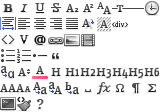
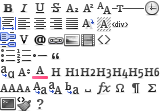
Updated decoda assets

Changed region(s): [[0.0, 0.2679, 0.125, 0.4286], [0.5938, 0.2946, 0.6875, 0.4018]]

diff --git a/webroot/js/decoda-1.1.0.min.js b/webroot/js/decoda-1.1.0.min.js
@@ -1,11 +1,12 @@
 /**
- * Decoda
- * A lightweight textarea editor with toolbar functionality for the Decoda markup language.
+ * Decoda - A lightweight textarea editor with toolbar functionality for the Decoda markup language.
  *
  * @copyright	2013
  * @link		http://milesj.me/code/mootools/decoda
  * @license		MIT
  * @authors		Miles Johnson <http://milesj.me>
+ *
+ * @version		1.1.0
  * @package		js
  */
 
@@ -14,7 +15,7 @@
 this.form=this.textarea.getParent('form');this.editor=new Element('div.decoda-editor');this.toolbar=new Element('div.decoda-toolbars');this.container=new Element('div.decoda-textarea');this.preview=new Element('div.decoda-preview').hide();this.help=new Element('div.decoda-help').hide();this.container.wraps(this.textarea);this.editor.grab(this.toolbar).wraps(this.container).adopt([this.preview,this.help]);if(this.options.namespace){this.editor.addClass(this.options.namespace);}
 if(this.$events.submit){this.form.addEvent('submit',this.$events.submit[0].bind(this));}
 this.fireEvent('initialize');},defaults:function(blacklist){this.addFilters(null,null,blacklist);this.addControls(null,null,blacklist);return this;},addControls:function(control,commands,blacklist){if(!commands){Object.each(Decoda.controls,function(commands,control){this.addControls(control,commands,blacklist);}.bind(this));}else{this.buildToolbar(control,commands,blacklist);}
-return this;},addFilters:function(filter,tags,blacklist){if(!tags){Object.each(Decoda.filters,function(tags,filter){this.addFilters(filter,tags,blacklist);}.bind(this));}else{this.buildToolbar(filter,tags,blacklist);Object.each(tags,function(tag){this.tags.push(tag);}.bind(this));}
+return this;},addFilters:function(filter,tags,blacklist){if(!tags){var filters=Object.clone(Decoda.filters);delete filters.email;delete filters.url;delete filters.image;delete filters.video;Object.each(filters,function(tags,filter){this.addFilters(filter,tags,blacklist);}.bind(this));}else{this.buildToolbar(filter,tags,blacklist);Object.each(tags,function(tag){this.tags.push(tag);}.bind(this));}
 return this;},buildToolbar:function(id,commands,blacklist){blacklist=Array.from(blacklist)||[];var ul=new Element('ul.decoda-toolbar').addClass('toolbar-'+id),li,button,menu,anchor;Object.each(commands,function(command){if(blacklist.indexOf(command.tag)>=0){return;}
 li=new Element('li');button=new Element('button.tag-'+command.tag,{html:'<span></span>',title:command.title,type:'button'});button.addEvent('click',(command.onClick||this.insertTag).bind(this,command,button));if(command.key){button.set('title',button.get('title')+' (Ctrl + '+command.key.toUpperCase()+')');this.textarea.addEvent('keydown',function(e){this._listenKeydown.attempt([e,command,button],this);}.bind(this));}
 if(command.className){button.addClass(command.className);}
@@ -30,12 +31,12 @@ var markup=this.formatTag(tag,defaultValue,contentValue);if(this.textarea.getSel
 this.fireEvent('insert',markup);return this;},formatTag:function(tag,defaultValue,contentValue,type){defaultValue=defaultValue||tag.defaultValue||'';contentValue=contentValue||tag.placeholder||'';var t=tag.tag,o=this.options.open,c=this.options.close,open=o+t,close=o+'/'+t+c,field;if(tag.hasDefault){field=tag.promptFor||'default';if(tag.prompt&&field==='default'){if(defaultValue){open+='="'+defaultValue+'"';}}else{open+='="'+defaultValue+'"';}}
 if(tag.selfClose){return open+'/'+c;}else{open+=c;}
 if(type==='open'){return open;}else if(type==='close'){return close;}
-return open+contentValue+close;},renderHelp:function(){var table=new Element('table'),thead=new Element('thead'),tbody=new Element('tbody'),tr,examples,attributes;tr=new Element('tr');tr.grab(new Element('th',{text:'Tag'}));tr.grab(new Element('th',{text:'Attributes'}));tr.grab(new Element('th',{text:'Examples'}));thead.grab(tr);this.tags.each(function(tag){attributes=(tag.attributes||[]).join(', ');examples=(tag.examples||[this.formatTag(tag)]).join('<br>');tr=new Element('tr');tr.grab(new Element('td',{html:tag.title}).addClass('tag-title'));tr.grab(new Element('td',{html:attributes}).addClass('tag-attributes'));tr.grab(new Element('td',{html:examples}).addClass('tag-examples'));tbody.grab(tr);}.bind(this));table.adopt([thead,tbody]);this.help.grab(table);this.fireEvent('renderHelp',table);},renderPreview:function(){this.preview.addClass('loading');new Request({url:this.options.previewUrl,data:{input:this.textarea.get('value')},onSuccess:function(response){this.preview.removeClass('loading').set('html',response);}.bind(this),onFailure:function(){this.container.show();this.enableToolbar();alert('An error has occurred while rendering the preview.');}.bind(this)}).post();this.fireEvent('renderPreview');},_listenKeydown:function(e,command,button){if(e.control&&e.key===command.key){e.stop();if(command.onClick){command.onClick.attempt([command,button],this);}else{this.insertTag(command,button);}
+return open+contentValue+close;},renderHelp:function(){var table=new Element('table'),thead=new Element('thead'),tbody=new Element('tbody'),tr,examples,attributes;tr=new Element('tr');tr.grab(new Element('th',{text:'Tag'}));tr.grab(new Element('th',{text:'Attributes'}));tr.grab(new Element('th',{text:'Examples'}));thead.grab(tr);this.tags.each(function(tag){attributes=(tag.attributes||[]).join(', ');examples=(tag.examples||[this.formatTag(tag)]).join('<br>');tr=new Element('tr');tr.grab(new Element('td',{html:tag.title}).addClass('tag-title'));tr.grab(new Element('td',{html:attributes}).addClass('tag-attributes'));tr.grab(new Element('td',{html:examples}).addClass('tag-examples'));tbody.grab(tr);}.bind(this));table.adopt([thead,tbody]);this.help.grab(table);this.fireEvent('renderHelp',table);},renderPreview:function(){this.preview.addClass('loading');new Request({url:this.options.previewUrl,data:{input:this.textarea.get('value')},onSuccess:function(response){this.preview.removeClass('loading').set('html',response);}.bind(this),onFailure:function(){this.container.show();this.enableToolbar();alert('An error has occurred while rendering the preview');}.bind(this)}).post();this.fireEvent('renderPreview');},_listenKeydown:function(e,command,button){if(e.control&&e.key===command.key){e.stop();if(command.onClick){command.onClick.attempt([command,button],this);}else{this.insertTag(command,button);}
 return false;}}});Decoda.filters={};Decoda.controls={};Decoda.filters.defaults={b:{tag:'b',title:'Bold',key:'b'},i:{tag:'i',title:'Italics',key:'i'},u:{tag:'u',title:'Underline',key:'u'},s:{tag:'s',title:'Strike-Through',key:'s'},sub:{tag:'sub',title:'Subscript'},sup:{tag:'sup',title:'Superscript'},abbr:{tag:'abbr',title:'Abbreviation',hasDefault:true,prompt:'Title:',attributes:['default'],examples:['[abbr="Hyper-Text Markup Language"]HTML[/abbr]']},time:{tag:'time',title:'Timestamp',prompt:'Date:',promptFor:'content'},br:{tag:'br',title:'Line Break',selfClose:true},hr:{tag:'hr',title:'Horizontal Break',selfClose:true}};Decoda.filters.text={font:{tag:'font',title:'Font Family',prompt:'Font:',hasDefault:true,attributes:['default'],examples:['[font="Arial"][/font]'],options:[{title:'Arial',defaultValue:'Arial',className:'font-arial',prompt:false},{title:'Tahoma',defaultValue:'Tahoma',className:'font-tahoma',prompt:false},{title:'Verdana',defaultValue:'Verdana',className:'font-verdana',prompt:false},{title:'Courier',defaultValue:'Courier',className:'font-courier',prompt:false},{title:'Times',defaultValue:'Times',className:'font-times',prompt:false},{title:'Helvetica',defaultValue:'Helvetica',className:'font-helvetica',prompt:false}]},size:{tag:'size',title:'Text Size',prompt:'Size:',hasDefault:true,attributes:['default'],examples:['[size="12"][/size]'],options:[{title:'Small',defaultValue:'10',className:'size-small',prompt:false},{title:'Normal',defaultValue:'12',className:'size-normal',prompt:false},{title:'Medium',defaultValue:'18',className:'size-medium',prompt:false},{title:'Large',defaultValue:'24',className:'size-large',prompt:false}],onInsert:function(value,field){if(field==='default'){return Number.from(value).limit(10,29);}
 return value;}},color:{tag:'color',title:'Text Color',prompt:'Hex Code:',hasDefault:true,attributes:['default'],examples:['[color="red"][/color]'],options:[{title:'Yellow',defaultValue:'yellow',className:'color-yellow',prompt:false},{title:'Orange',defaultValue:'orange',className:'color-orange',prompt:false},{title:'Red',defaultValue:'red',className:'color-red',prompt:false},{title:'Blue',defaultValue:'blue',className:'color-blue',prompt:false},{title:'Purple',defaultValue:'purple',className:'color-purple',prompt:false},{title:'Green',defaultValue:'green',className:'color-green',prompt:false},{title:'White',defaultValue:'white',className:'color-white',prompt:false},{title:'Gray',defaultValue:'gray',className:'color-gray',prompt:false},{title:'Black',defaultValue:'black',className:'color-black',prompt:false}],onInsert:function(value,field){if(field==='default'){return(/(?:#[0-9a-f]{3,6}|[a-z]+)/i).exec(value)?value:null;}
-return value;}},heading:{tag:'h1',title:'Heading',examples:['[h1][/h1], [h2][/h2], [h3][/h3], [h4][/h4], [h5][/h5], [h6][/h6]'],options:[{tag:'h1',title:'1st',className:'heading-h1'},{tag:'h2',title:'2nd',className:'heading-h2'},{tag:'h3',title:'3rd',className:'heading-h3'},{tag:'h4',title:'4th',className:'heading-h4'},{tag:'h5',title:'5th',className:'heading-h5'},{tag:'h6',title:'6th',className:'heading-h6'}]}};Decoda.filters.block={left:{tag:'left',title:'Left Align'},center:{tag:'center',title:'Center Align'},right:{tag:'right',title:'Right Align'},justify:{tag:'justify',title:'Justify Align'},hide:{tag:'hide',title:'Hide'},spoiler:{tag:'spoiler',title:'Spoiler'}};Decoda.filters.list={list:{tag:'list',title:'Unordered List'},olist:{tag:'olist',title:'Ordered List'},li:{tag:'li',title:'List Item'}};Decoda.filters.quote={quote:{tag:'quote',title:'Quote Block',prompt:'Author:',hasDefault:true,examples:['[quote][/quote]','[quote="Author"][/quote]','[quote date="12/12/2012"][/quote]'],attributes:['default <span>(optional)</span>','date <span>(optional)</span>']}};Decoda.filters.code={code:{tag:'code',title:'Code Block',examples:['[code][/code]','[code="html"][/code]','[code hl="1,5,10"][/code]'],attributes:['default <span>(optional)</span>','hl <span>(optional)</span>']},var:{tag:'var',title:'Variable'}};Decoda.filters.email={email:{tag:'email',title:'Email',prompt:'Email Address:',hasDefault:true,examples:['[email]email@domain.com[/email]','[email="email@domain.com"][/email]'],attributes:['default <span>(optional)</span>']}};Decoda.filters.url={url:{tag:'url',title:'URL',prompt:'Web Address:',hasDefault:true,examples:['[url]http://domain.com[/url]','[url="http://domain.com"][/url]'],attributes:['default <span>(optional)</span>']}};Decoda.filters.image={img:{tag:'img',title:'Image',prompt:'Image URL:',examples:['[img][/img]','[img width="250" height="15%"][/img]'],attributes:['width <span>(optional)</span>','height <span>(optional)</span>']}};Decoda.filters.video={video:{tag:'video',title:'Video',prompt:'Video ID:',promptFor:'content',hasDefault:true,examples:['[video="youtube"]ID[/video]','[youtube size="large"]ID[/youtube]','[veoh size="small"]ID[/veoh]'],attributes:['default','size <span>(optional)</span>'],options:[{tag:'youtube',title:'YouTube',hasDefault:false,className:'video-youtube'},{tag:'vimeo',title:'Vimeo',hasDefault:false,className:'video-vimeo'},{tag:'veoh',title:'Veoh',hasDefault:false,className:'video-veoh'},{tag:'liveleak',title:'LiveLeak',hasDefault:false,className:'video-liveleak'},{tag:'dailymotion',title:'Daily Motion',hasDefault:false,className:'video-dailymotion'},{tag:'collegehumor',title:'College Humor',hasDefault:false,className:'video-collegehumor'},{tag:'myspace',title:'MySpace',hasDefault:false,className:'video-myspace'},{tag:'wegame',title:'WeGame',hasDefault:false,className:'video-wegame'}]}};Decoda.controls.editor={preview:{tag:'preview',key:'e',title:'Preview',onClick:function(command,button){if(!this.options.previewUrl){alert('Preview functionality has not been enabled.');return;}
+return value;}},heading:{tag:'h1',title:'Heading',examples:['[h1][/h1], [h2][/h2], [h3][/h3], [h4][/h4], [h5][/h5], [h6][/h6]'],options:[{tag:'h1',title:'1st',className:'heading-h1'},{tag:'h2',title:'2nd',className:'heading-h2'},{tag:'h3',title:'3rd',className:'heading-h3'},{tag:'h4',title:'4th',className:'heading-h4'},{tag:'h5',title:'5th',className:'heading-h5'},{tag:'h6',title:'6th',className:'heading-h6'}]}};Decoda.filters.block={left:{tag:'left',title:'Left Align'},center:{tag:'center',title:'Center Align'},right:{tag:'right',title:'Right Align'},justify:{tag:'justify',title:'Justify Align'},hide:{tag:'hide',title:'Hide'},spoiler:{tag:'spoiler',title:'Spoiler'}};Decoda.filters.list={list:{tag:'list',title:'Unordered List'},olist:{tag:'olist',title:'Ordered List'},li:{tag:'li',title:'List Item'}};Decoda.filters.quote={quote:{tag:'quote',title:'Quote Block',prompt:'Author:',hasDefault:true,examples:['[quote][/quote]','[quote="Author"][/quote]','[quote date="12/12/2012"][/quote]'],attributes:['default <span>(optional)</span>','date <span>(optional)</span>']}};Decoda.filters.code={code:{tag:'code',title:'Code Block',examples:['[code][/code]','[code="html"][/code]','[code hl="1,5,10"][/code]'],attributes:['default <span>(optional)</span>','hl <span>(optional)</span>']},var:{tag:'var',title:'Variable'},source:{tag:'source',title:'Source Code (Inline)'}};Decoda.filters.email={email:{tag:'email',title:'Email',prompt:'Email Address:',hasDefault:true,examples:['[email]email@domain.com[/email]','[email="email@domain.com"][/email]'],attributes:['default <span>(optional)</span>']}};Decoda.filters.url={url:{tag:'url',title:'URL',prompt:'Web Address:',hasDefault:true,examples:['[url]http://domain.com[/url]','[url="http://domain.com"][/url]'],attributes:['default <span>(optional)</span>']}};Decoda.filters.image={img:{tag:'img',title:'Image',prompt:'Image URL:',examples:['[img][/img]','[img width="250" height="15%"][/img]'],attributes:['width <span>(optional)</span>','height <span>(optional)</span>']}};Decoda.filters.video={video:{tag:'video',title:'Video',prompt:'Video ID:',promptFor:'content',hasDefault:true,examples:['[video="youtube"]ID[/video]','[youtube size="large"]ID[/youtube]','[veoh size="small"]ID[/veoh]'],attributes:['default','size <span>(optional)</span>'],options:[{tag:'youtube',title:'YouTube',hasDefault:false,className:'video-youtube'},{tag:'vimeo',title:'Vimeo',hasDefault:false,className:'video-vimeo'},{tag:'veoh',title:'Veoh',hasDefault:false,className:'video-veoh'},{tag:'liveleak',title:'LiveLeak',hasDefault:false,className:'video-liveleak'},{tag:'dailymotion',title:'Daily Motion',hasDefault:false,className:'video-dailymotion'},{tag:'collegehumor',title:'College Humor',hasDefault:false,className:'video-collegehumor'},{tag:'myspace',title:'MySpace',hasDefault:false,className:'video-myspace'},{tag:'wegame',title:'WeGame',hasDefault:false,className:'video-wegame'}]}};Decoda.filters.media=Object.merge({},Decoda.filters.email,Decoda.filters.url,Decoda.filters.image,Decoda.filters.video);Decoda.controls.editor={preview:{tag:'preview',key:'e',title:'Preview',onClick:function(command,button){if(!this.options.previewUrl){alert('Preview functionality has not been enabled');return;}
 this.container.hide();this.help.hide();if(this.preview.isVisible()){this.preview.hide().empty();this.container.show();this.enableToolbar();}else{this.preview.show();this.disableToolbar();this.renderPreview();}
-button.set('disabled',false);}},clean:{tag:'clean',title:'Clean',onClick:function(){this.disableToolbar();if(this.clean()){window.setTimeout(function(){this.enableToolbar();}.bind(this),500);}}},help:{tag:'help',title:'Help',onClick:function(command,button){if(!this.tags.length){alert('No tag filters have been loaded.');return;}
+button.set('disabled',false);}},clean:{tag:'clean',title:'Clean',onClick:function(){this.disableToolbar();if(this.clean()){window.setTimeout(function(){this.enableToolbar();}.bind(this),500);}}},help:{tag:'help',title:'Help',onClick:function(command,button){if(!this.tags.length){alert('No tag filters have been loaded');return;}
 this.container.hide();this.preview.hide();if(!this.help.hasChildNodes()){this.renderHelp();}
 if(this.help.isVisible()){this.help.hide();this.container.show();this.enableToolbar();}else{this.help.show();this.disableToolbar();}
 button.set('disabled',false);}}};}());

diff --git a/webroot/css/decoda-1.1.0.min.css b/webroot/css/decoda-1.1.0.min.css
@@ -1,13 +1,14 @@
 /**
- * Decoda
- * A lightweight textarea editor with toolbar functionality for the Decoda markup language.
+ * Decoda - A lightweight textarea editor with toolbar functionality for the Decoda markup language.
  *
  * @copyright	2013
  * @link		http://milesj.me/code/mootools/decoda
  * @license		MIT
  * @authors		Miles Johnson <http://milesj.me>
+ *
+ * @version		1.1.0
  * @package		css
  */
 
 /* css/decoda.css */
-.decoda-editor *{-moz-box-sizing:border-box;-webkit-box-sizing:border-box;box-sizing:border-box;margin:0;padding:0}.decoda-editor textarea{width:100%}.decoda-toolbars{display:block;font-size:12px;margin-bottom:5px}.decoda-toolbars .decoda-toolbar{display:inline-block}.decoda-toolbars .decoda-toolbar li{display:inline-block;z-index:0;margin-right:1px;position:relative}.decoda-toolbars .decoda-toolbar li:not(.disabled):hover .decoda-menu{display:block}.decoda-toolbars .decoda-menu{display:none;position:absolute;top:25px;left:2px;z-index:10;width:125px;background:rgba(255, 255, 255, .95);box-shadow:0 0 4px #4e4e4e;border-radius:2px}.decoda-toolbars .decoda-menu li{margin:0;display:block}.decoda-toolbars button{padding:2px}.decoda-toolbars button[disabled]{opacity:.15}.decoda-toolbars button::-moz-focus-inner{border:0;padding:0}.decoda-toolbars button span{background-image:url("../img/icons-black.png");display:block;width:16px;height:16px}.decoda-toolbars .decoda-menu a{text-shadow:none;color:black;display:block;padding:3px 5px;line-height:150%;min-height:16px;vertical-align:middle;text-decoration:none}.decoda-toolbars .decoda-menu a:hover{font-weight:bold;background:#eee}.decoda-toolbars .decoda-menu li:first-child a{border-top-left-radius:2px;border-top-right-radius:2px}.decoda-toolbars .decoda-menu li:last-child a{border-bottom-left-radius:2px;border-bottom-right-radius:2px}.decoda-editor .tag-b span{background-position:0px 0}.decoda-editor .tag-i span{background-position:-16px 0}.decoda-editor .tag-u span{background-position:-32px 0}.decoda-editor .tag-s span{background-position:-48px 0}.decoda-editor .tag-sub span{background-position:-64px 0}.decoda-editor .tag-sup span{background-position:-80px 0}.decoda-editor .tag-abbr span{background-position:-96px 0}.decoda-editor .tag-br span{background-position:-112px 0}.decoda-editor .tag-hr span{background-position:-128px 0}.decoda-editor .tag-time span{background-position:-144px 0}.decoda-editor .tag-align span{background-position:0 -16px}.decoda-editor .tag-left span{background-position:-16px -16px}.decoda-editor .tag-center span{background-position:-32px -16px}.decoda-editor .tag-right span{background-position:-48px -16px}.decoda-editor .tag-justify span{background-position:-64px -16px}.decoda-editor .tag-hide span{background-position:-80px -16px}.decoda-editor .tag-spoiler span{background-position:-96px -16px}.decoda-editor .tag-div span{background-position:-112px -16px}.decoda-editor .tag-code span{background-position:0 -32px}.decoda-editor .tag-var span{background-position:-16px -32px}.decoda-editor .tag-email span{background-position:-32px -32px}.decoda-editor .tag-url span{background-position:-48px -32px}.decoda-editor .tag-img span{background-position:-64px -32px}.decoda-editor .tag-video span{background-position:-80px -32px}.decoda-editor .tag-list span{background-position:0 -48px}.decoda-editor .tag-olist span{background-position:-16px -48px}.decoda-editor .tag-li span{background-position:-32px -48px}.decoda-editor .tag-quote span{background-position:-48px -48px}.decoda-editor .tag-font span{background-position:0 -64px}.decoda-editor .tag-size span{background-position:-16px -64px}.decoda-editor .tag-color span{background-position:-32px -64px}.decoda-editor .tag-h1 span{background-position:-48px -64px}.decoda-editor .tag-allupper span{background-position:0 -80px}.decoda-editor .tag-capitalize span{background-position:-16px -80px}.decoda-editor .tag-lowercase span{background-position:-32px -80px}.decoda-editor .tag-uppercase span{background-position:-48px -80px}.decoda-editor .tag-replace span{background-position:-64px -80px}.decoda-editor .tag-space span{background-position:-80px -80px}.decoda-editor .tag-function span{background-position:-96px -80px}.decoda-editor .tag-omega span{background-position:-112px -80px}.decoda-editor .tag-pilcrow span{background-position:-128px -80px}.decoda-editor .tag-sum span{background-position:-144px -80px}.decoda-editor .tag-preview span{background-position:0 -96px}.decoda-editor .tag-clean span{background-position:-16px -96px}.decoda-editor .tag-help span{background-position:-32px -96px}.decoda-editor .font-arial{font-family:Arial, sans-serif}.decoda-editor .font-tahoma{font-family:Tahoma, sans-serif}.decoda-editor .font-verdana{font-family:Verdana, sans-serif}.decoda-editor .font-courier{font-family:Courier, sans-serif}.decoda-editor .font-times{font-family:'Times', 'Times New Roman', serif}.decoda-editor .font-helvetica{font-family:Helvetica, sans-serif}.decoda-editor .size-small{font-size:10px}.decoda-editor .size-normal{font-size:12px}.decoda-editor .size-medium{font-size:18px}.decoda-editor .size-large{font-size:24px}.decoda-editor .menu-h1 span,.decoda-editor .menu-color span{display:inline-block;vertical-align:middle;margin-right:5px;height:16px;width:16px;position:relative;top:-1px}.decoda-editor .menu-h1 span{background-image:url("../img/icons-black.png")}.decoda-editor .menu-h1 .heading-h1 span{background-position:-64px -64px}.decoda-editor .menu-h1 .heading-h2 span{background-position:-80px -64px}.decoda-editor .menu-h1 .heading-h3 span{background-position:-96px -64px}.decoda-editor .menu-h1 .heading-h4 span{background-position:-112px -64px}.decoda-editor .menu-h1 .heading-h5 span{background-position:-128px -64px}.decoda-editor .menu-h1 .heading-h6 span{background-position:-144px -64px}.decoda-editor .menu-color .color-yellow span{background-color:yellow}.decoda-editor .menu-color .color-orange span{background-color:orange}.decoda-editor .menu-color .color-red span{background-color:red}.decoda-editor .menu-color .color-blue span{background-color:blue}.decoda-editor .menu-color .color-purple span{background-color:purple}.decoda-editor .menu-color .color-green span{background-color:green}.decoda-editor .menu-color .color-white span{background-color:white}.decoda-editor .menu-color .color-gray span{background-color:gray}.decoda-editor .menu-color .color-black span{background-color:black}.decoda-preview{max-height:500px;overflow-y:auto}.decoda-help table{width:100%;border-collapse:collapse;border-spacing:1px}.decoda-help table td,.decoda-help table th{border:1px solid rgba(0, 0, 0, .05);padding:5px}.decoda-help table th{font-weight:bold;background:rgba(0, 0, 0, .05)}.decoda-help table .tag-title{font-weight:bold}
+.decoda-editor *{-moz-box-sizing:border-box;-webkit-box-sizing:border-box;box-sizing:border-box;margin:0;padding:0}.decoda-editor textarea{width:100%}.decoda-toolbars{display:block;font-size:12px;margin-bottom:5px}.decoda-toolbars .decoda-toolbar{display:inline-block}.decoda-toolbars .decoda-toolbar li{display:inline-block;z-index:0;margin-right:1px;position:relative}.decoda-toolbars .decoda-toolbar li:not(.disabled):hover .decoda-menu{display:block}.decoda-toolbars .decoda-menu{display:none;position:absolute;top:25px;left:2px;z-index:10;width:125px;background:rgba(255, 255, 255, .95);box-shadow:0 0 4px #4e4e4e;border-radius:2px}.decoda-toolbars .decoda-menu li{margin:0;display:block}.decoda-toolbars button{padding:2px}.decoda-toolbars button[disabled]{opacity:.15}.decoda-toolbars button::-moz-focus-inner{border:0;padding:0}.decoda-toolbars button span{background-image:url("../img/icons-black.png");display:block;width:16px;height:16px}.decoda-toolbars .decoda-menu a{text-shadow:none;color:black;display:block;padding:3px 5px;line-height:150%;min-height:16px;vertical-align:middle;text-decoration:none}.decoda-toolbars .decoda-menu a:hover{font-weight:bold;background:#eee}.decoda-toolbars .decoda-menu li:first-child a{border-top-left-radius:2px;border-top-right-radius:2px}.decoda-toolbars .decoda-menu li:last-child a{border-bottom-left-radius:2px;border-bottom-right-radius:2px}.decoda-editor .tag-b span{background-position:0px 0}.decoda-editor .tag-i span{background-position:-16px 0}.decoda-editor .tag-u span{background-position:-32px 0}.decoda-editor .tag-s span{background-position:-48px 0}.decoda-editor .tag-sub span{background-position:-64px 0}.decoda-editor .tag-sup span{background-position:-80px 0}.decoda-editor .tag-abbr span{background-position:-96px 0}.decoda-editor .tag-br span{background-position:-112px 0}.decoda-editor .tag-hr span{background-position:-128px 0}.decoda-editor .tag-time span{background-position:-144px 0}.decoda-editor .tag-align span{background-position:0 -16px}.decoda-editor .tag-left span{background-position:-16px -16px}.decoda-editor .tag-center span{background-position:-32px -16px}.decoda-editor .tag-right span{background-position:-48px -16px}.decoda-editor .tag-justify span{background-position:-64px -16px}.decoda-editor .tag-hide span{background-position:-80px -16px}.decoda-editor .tag-spoiler span{background-position:-96px -16px}.decoda-editor .tag-div span{background-position:-112px -16px}.decoda-editor .tag-code span{background-position:0 -32px}.decoda-editor .tag-var span{background-position:-16px -32px}.decoda-editor .tag-email span{background-position:-32px -32px}.decoda-editor .tag-url span{background-position:-48px -32px}.decoda-editor .tag-img span{background-position:-64px -32px}.decoda-editor .tag-video span{background-position:-80px -32px}.decoda-editor .tag-source span{background-position:-96px -32px}.decoda-editor .tag-list span{background-position:0 -48px}.decoda-editor .tag-olist span{background-position:-16px -48px}.decoda-editor .tag-li span{background-position:-32px -48px}.decoda-editor .tag-quote span{background-position:-48px -48px}.decoda-editor .tag-font span{background-position:0 -64px}.decoda-editor .tag-size span{background-position:-16px -64px}.decoda-editor .tag-color span{background-position:-32px -64px}.decoda-editor .tag-h1 span{background-position:-48px -64px}.decoda-editor .tag-allupper span{background-position:0 -80px}.decoda-editor .tag-capitalize span{background-position:-16px -80px}.decoda-editor .tag-lowercase span{background-position:-32px -80px}.decoda-editor .tag-uppercase span{background-position:-48px -80px}.decoda-editor .tag-replace span{background-position:-64px -80px}.decoda-editor .tag-space span{background-position:-80px -80px}.decoda-editor .tag-function span{background-position:-96px -80px}.decoda-editor .tag-omega span{background-position:-112px -80px}.decoda-editor .tag-pilcrow span{background-position:-128px -80px}.decoda-editor .tag-sum span{background-position:-144px -80px}.decoda-editor .tag-preview span{background-position:0 -96px}.decoda-editor .tag-clean span{background-position:-16px -96px}.decoda-editor .tag-help span{background-position:-32px -96px}.decoda-editor .font-arial{font-family:Arial, sans-serif}.decoda-editor .font-tahoma{font-family:Tahoma, sans-serif}.decoda-editor .font-verdana{font-family:Verdana, sans-serif}.decoda-editor .font-courier{font-family:Courier, sans-serif}.decoda-editor .font-times{font-family:'Times', 'Times New Roman', serif}.decoda-editor .font-helvetica{font-family:Helvetica, sans-serif}.decoda-editor .size-small{font-size:10px}.decoda-editor .size-normal{font-size:12px}.decoda-editor .size-medium{font-size:18px}.decoda-editor .size-large{font-size:24px}.decoda-editor .menu-h1 span,.decoda-editor .menu-color span{display:inline-block;vertical-align:middle;margin-right:5px;height:16px;width:16px;position:relative;top:-1px}.decoda-editor .menu-h1 span{background-image:url("../img/icons-black.png")}.decoda-editor .menu-h1 .heading-h1 span{background-position:-64px -64px}.decoda-editor .menu-h1 .heading-h2 span{background-position:-80px -64px}.decoda-editor .menu-h1 .heading-h3 span{background-position:-96px -64px}.decoda-editor .menu-h1 .heading-h4 span{background-position:-112px -64px}.decoda-editor .menu-h1 .heading-h5 span{background-position:-128px -64px}.decoda-editor .menu-h1 .heading-h6 span{background-position:-144px -64px}.decoda-editor .menu-color .color-yellow span{background-color:yellow}.decoda-editor .menu-color .color-orange span{background-color:orange}.decoda-editor .menu-color .color-red span{background-color:red}.decoda-editor .menu-color .color-blue span{background-color:blue}.decoda-editor .menu-color .color-purple span{background-color:purple}.decoda-editor .menu-color .color-green span{background-color:green}.decoda-editor .menu-color .color-white span{background-color:white}.decoda-editor .menu-color .color-gray span{background-color:gray}.decoda-editor .menu-color .color-black span{background-color:black}.decoda-preview{max-height:500px;overflow-y:auto}.decoda-help table{width:100%;border-collapse:collapse;border-spacing:1px}.decoda-help table td,.decoda-help table th{border:1px solid rgba(0, 0, 0, .05);padding:5px}.decoda-help table th{font-weight:bold;background:rgba(0, 0, 0, .05)}.decoda-help table .tag-title{font-weight:bold}

diff --git a/webroot/css/decoda-theme-1.1.0.min.css b/webroot/css/decoda-theme-1.1.0.min.css
@@ -1,0 +1,14 @@
+/**
+ * Decoda - A lightweight textarea editor with toolbar functionality for the Decoda markup language.
+ *
+ * @copyright	2013
+ * @link		http://milesj.me/code/mootools/decoda
+ * @license		MIT
+ * @authors		Miles Johnson <http://milesj.me>
+ *
+ * @version		1.1.0
+ * @package		css/theme
+ */
+
+/* css/decoda-theme.css */
+.decoda-toolbars{border:1px solid #e1e1e1;border-bottom-color:#dadada;box-shadow:0 1px 0 #BBBBBB;border-radius:2px;background-image:-o-linear-gradient(center top, #f9f9f9 0%, #e1e1e1 100%);background-image:-ms-linear-gradient(center top, #f9f9f9 0%, #e1e1e1 100%);background-image:-moz-linear-gradient(center top, #f9f9f9 0%, #e1e1e1 100%);background-image:-webkit-linear-gradient(center top, #f9f9f9 0%, #e1e1e1 100%);background-image:-webkit-gradient(linear, center top, center bottom, color-stop(0, #f9f9f9), color-stop(1, #e1e1e1));background-image:linear-gradient(center top, #f9f9f9 0%, #e1e1e1 100%)}.decoda-toolbars .decoda-toolbar{float:left;display:block;border-left:1px solid #D7D7D7;border-right:1px solid #EEEEEE}.decoda-toolbars .decoda-toolbar:first-child{border-left:0}.decoda-toolbars .decoda-toolbar:last-child{border-right:0}.decoda-toolbars .decoda-toolbar > li{float:left;display:block}.decoda-toolbars:after{clear:both;content:"";display:block}.decoda-toolbars button{margin:0;border:0;padding:5px;background:none;display:block;cursor:pointer}.decoda-toolbars button:hover{background-image:-o-linear-gradient(center top, #fefefe 0%, #eae9e9 100%);background-image:-ms-linear-gradient(center top, #fefefe 0%, #eae9e9 100%);background-image:-moz-linear-gradient(center top, #fefefe 0%, #eae9e9 100%);background-image:-webkit-linear-gradient(center top, #fefefe 0%, #eae9e9 100%);background-image:-webkit-gradient(linear, center top, center bottom, color-stop(0, #fefefe), color-stop(1, #eae9e9));background-image:linear-gradient(center top, #fefefe 0%, #eae9e9 100%)}.decoda-toolbars button:focus{background:#fefefe}.decoda-toolbars .decoda-menu{border:1px solid #BBBBBB;background:#f9f9f9;border-radius:2px;box-shadow:none}.decoda-toolbars .decoda-menu a:hover{background:#eae9e9}

diff --git a/webroot/css/decoda-ie-1.1.0.min.css b/webroot/css/decoda-ie-1.1.0.min.css
@@ -1,11 +1,12 @@
 /**
- * Decoda
- * A lightweight textarea editor with toolbar functionality for the Decoda markup language.
+ * Decoda - A lightweight textarea editor with toolbar functionality for the Decoda markup language.
  *
  * @copyright	2013
  * @link		http://milesj.me/code/mootools/decoda
  * @license		MIT
  * @authors		Miles Johnson <http://milesj.me>
+ *
+ * @version		1.1.0
  * @package		css/ie
  */
 
